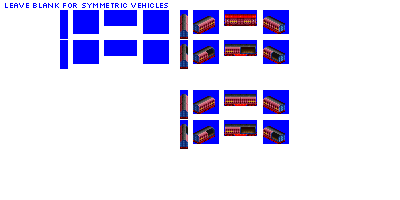
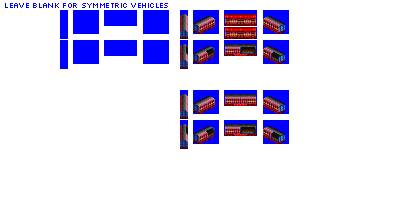
Change: WIP on farm product vans

Changed region(s): [[0.54, 0.09, 0.66, 0.21]]

diff --git a/src/vehicles/pony/farm_product_box_cars_type_2_pony.py b/src/vehicles/pony/farm_product_box_cars_type_2_pony.py
@@ -11,7 +11,7 @@ def main(roster_id, **kwargs):
         gen=1,
         subtype="A",
         base_track_type_name="NG",
-        sprites_complete=True,
+        sprites_complete=False,
     )
 
     consist.add_unit(type=FreightCar, chassis="4_axle_ng_16px")
@@ -25,7 +25,7 @@ def main(roster_id, **kwargs):
         gen=3,
         subtype="A",
         base_track_type_name="NG",
-        sprites_complete=True,
+        sprites_complete=False,
     )
 
     consist.add_unit(type=FreightCar, chassis="4_axle_ng_16px")
@@ -37,7 +37,7 @@ def main(roster_id, **kwargs):
         gen=3,
         subtype="B",
         base_track_type_name="NG",
-        sprites_complete=True,
+        sprites_complete=False,
     )
 
     consist.add_unit(type=FreightCar, chassis="4_axle_ng_24px")
@@ -49,7 +49,7 @@ def main(roster_id, **kwargs):
         base_numeric_id=25390,
         gen=2,
         subtype="A",
-        sprites_complete=True,
+        sprites_complete=False,
     )
 
     consist.add_unit(type=FreightCar, chassis="2_axle_filled_16px")
@@ -60,7 +60,7 @@ def main(roster_id, **kwargs):
         base_numeric_id=25360,
         gen=2,
         subtype="B",
-        sprites_complete=True,
+        sprites_complete=False,
     )
 
     consist.add_unit(type=FreightCar, chassis="3_axle_gapped_24px")
@@ -71,7 +71,7 @@ def main(roster_id, **kwargs):
         base_numeric_id=25230,
         gen=3,
         subtype="A",
-        sprites_complete=True,
+        sprites_complete=False,
     )
 
     consist.add_unit(type=FreightCar, chassis="2_axle_filled_16px")
@@ -82,7 +82,7 @@ def main(roster_id, **kwargs):
         base_numeric_id=25160,
         gen=3,
         subtype="B",
-        sprites_complete=True,
+        sprites_complete=False,
     )
 
     consist.add_unit(type=FreightCar, chassis="2_axle_filled_24px")
@@ -90,10 +90,10 @@ def main(roster_id, **kwargs):
     consist = FarmProductsBoxCarConsistType2(
         roster_id=roster_id,
         roster_id_providing_module=kwargs["roster_id_providing_module"],
-        base_numeric_id=25110,
+        base_numeric_id=35300,
         gen=4,
         subtype="A",
-        sprites_complete=True,
+        sprites_complete=False,
     )
 
     consist.add_unit(type=FreightCar, chassis="2_axle_filled_16px")
@@ -101,10 +101,10 @@ def main(roster_id, **kwargs):
     consist = FarmProductsBoxCarConsistType2(
         roster_id=roster_id,
         roster_id_providing_module=kwargs["roster_id_providing_module"],
-        base_numeric_id=25080,
+        base_numeric_id=35600,
         gen=4,
         subtype="B",
-        sprites_complete=True,
+        sprites_complete=False,
     )
 
     consist.add_unit(type=FreightCar, chassis="2_axle_filled_24px")
@@ -112,25 +112,25 @@ def main(roster_id, **kwargs):
     consist = FarmProductsBoxCarConsistType2(
         roster_id=roster_id,
         roster_id_providing_module=kwargs["roster_id_providing_module"],
-        base_numeric_id=23720,
+        base_numeric_id=35120,
         gen=4,
         subtype="C",
-        sprites_complete=True,
+        sprites_complete=False,
     )
 
     consist.add_unit(
         type=FreightCar,
-        suppress_roof_sprite=True,  # non-standard roof for this wagon
+        suppress_roof_sprite=False,  # non-standard roof for this wagon
         chassis="4_axle_1cc_filled_32px",
     )
 
     consist = FarmProductsBoxCarConsistType2(
         roster_id=roster_id,
         roster_id_providing_module=kwargs["roster_id_providing_module"],
-        base_numeric_id=23700,
+        base_numeric_id=28430,
         gen=5,
         subtype="B",
-        sprites_complete=True,
+        sprites_complete=False,
     )
 
     consist.add_unit(type=FreightCar, chassis="2_axle_filled_greebled_24px")
@@ -138,10 +138,10 @@ def main(roster_id, **kwargs):
     consist = FarmProductsBoxCarConsistType2(
         roster_id=roster_id,
         roster_id_providing_module=kwargs["roster_id_providing_module"],
-        base_numeric_id=31320,
+        base_numeric_id=32960,
         gen=5,
         subtype="C",
-        sprites_complete=True,
+        sprites_complete=False,
     )
 
     consist.add_unit(type=FreightCar, chassis="4_axle_filled_greebled_32px")

diff --git a/src/train.py b/src/train.py
@@ -4799,7 +4799,7 @@ class FarmProductsBoxCarConsistType2(FarmProductsBoxCarConsistBase):
         self.base_id = "farm_product_box_car_type_2"
         super().__init__(**kwargs)
         # Graphics configuration
-        self.roof_type = "freight_cc1"
+        self.roof_type = "freight"
         weathered_variants = {
             "unweathered": graphics_constants.farm_product_box_car_livery_recolour_map,
             "weathered": graphics_constants.farm_product_box_car_livery_recolour_map_weathered,
